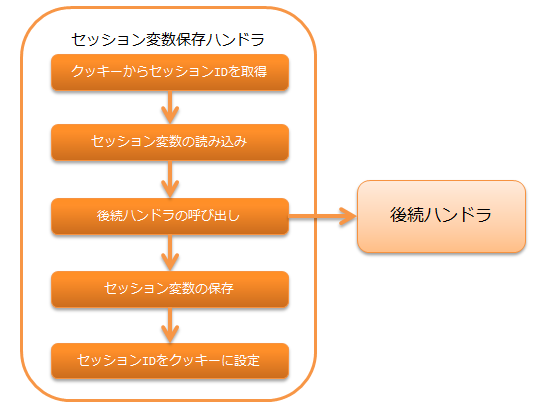
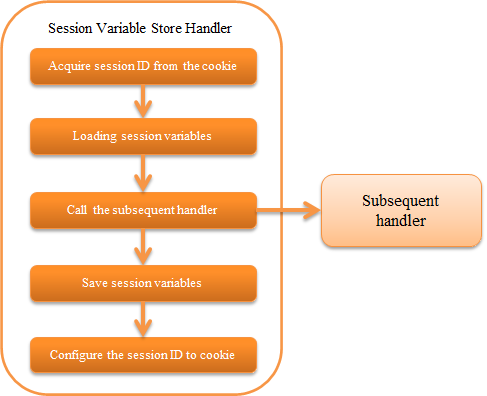
セッション変数保存ハンドラのページを英語化

Changed region(s): [[0.0, 0.0, 1.0, 1.0], [0.7084, 0.4848, 0.924, 0.5758]]

diff --git a/en/application_framework/application_framework/handlers/web/SessionStoreHandler.rst b/en/application_framework/application_framework/handlers/web/SessionStoreHandler.rst
@@ -1,37 +1,34 @@
 .. _session_store_handler:
 
-セッション変数保存ハンドラ
-============================
+Session Variable Store Handler
+==============================
 
-.. contents:: 目次
+.. contents:: Table of contents
   :depth: 3
   :local:
 
-後続のハンドラやライブラリで追加・更新・削除されたセッション変数を、セッションストアに保存するハンドラ。
+This handler stores the session variables added/updated/deleted in subsequent handlers and libraries in the session store.
 
-セッションストア機能の詳細は、 :ref:`session_store` を参照。
+For details of session store functions, see :ref:`session_store` .
 
-本ハンドラの処理の流れは以下の通りとなる。
+The process flow of this handler is as follows.
 
 .. image:: ../images/SessionStoreHandler/flow.png
 
 .. important:: 
 
-  同一セッションの処理が複数のスレッドで実行された場合(例えば、タブブラウザで複数タブから同時にリクエストが有った場合)、
-  使用しているストアによっては後勝ちとなる。
-  詳細は、以下のイメージを参照。
+  If processing of the same session is executed by multiple threads (for example, if there are requests from multiple tabs in the browser at the same time), then depending on the store being used, the request that comes last will be processed. See the below image for details.
 
   .. image:: ../images/SessionStoreHandler/multi-thread.png
     :scale: 80
 
-  このため、使用するストアの特性をよく理解し、要件にあったストアを選択する必要がある。
-  ストアの詳細は、 :ref:`session_store-future_of_store` を参照。
+  Therefore, it is necessary to fully understand the characteristics of the store to be used and select the store that meets the requirements. For details of the store, see :ref:`session_store-future_of_store` .
 
-ハンドラクラス名
+Handler class name
 --------------------------------------------------
 * :java:extdoc:`nablarch.common.web.session.SessionStoreHandler`
 
-モジュール一覧
+Module list
 --------------------------------------------------
 .. code-block:: xml
 
@@ -40,7 +37,7 @@
     <artifactId>nablarch-fw-web</artifactId>
   </dependency>
 
-  <!-- DBストアを使用する場合のみ -->
+  <!-- Only when using the DB store -->
   <dependency>
     <groupId>com.nablarch.framework</groupId>
     <artifactId>nablarch-fw-web-dbstore</artifactId>
@@ -48,31 +45,25 @@
 
 .. _session_store_handler-constraint:
 
-制約
+Constraints
 ------------------------------
-:ref:`http_response_handler` より後ろに配置すること
-  サーブレットフォワード時、フォワード先でセッションストアの値にアクセスできるようにするため、
-  本ハンドラは :ref:`http_response_handler` より後ろに配置する必要がある。
+Place this handler after the :ref:`http_response_handler`
+  During servlet forward, this handler must be placed after the :ref:`http_response_handler` so that the value of the session store can be accessed at the forward destination.
 
-:ref:`multipart_handler` より後ろに配置すること
-  HIDDENストア使用時にリクエストパラメータにアクセスできるようにするため、
-  本ハンドラは :ref:`multipart_handler` より後ろに配置する必要がある。
+Place this handler after the :ref:`multipart_handler`
+  This handler must be placed after the :ref:`multipart_handler` so that the request parameters can be accessed when using the HIDDEN store.
 
-:ref:`forwarding_handler` より前に配置すること
-  :ref:`forwarding_handler` を本ハンドラよりも前に設定した場合、セッションストアの読み込み、保存が複数回実行されるが、
-  HIDDENストアはリクエストパラメータからセッション変数を読み込み、リクエストスコープにセッション変数を保存するため、
-  内部フォーワード時にHIDDENストアを使用した場合、最新のセッション変数を取得することができない問題がある。
-  このため、本ハンドラは :ref:`forwarding_handler` より前に配置すること。
+Place this handler before the :ref:`forwarding_handler`
+  Although the session store is read and saved multiple times if the :ref:`forwarding_handler` is configured before this handler, the HIDDEN store reads the session variable from the request parameter and saves the session variable in the request scope. Therefore, there is a problem that the latest session variable cannot be obtained when using the HIDDEN store during internal forward. Therefore, place this handler before the :ref:`forwarding_handler` .
 
-セッションストアを使用するための設定を行う
+Configure for using session store
 --------------------------------------------------------------
-セッションストアを使用するには、以下の設定を行った :java:extdoc:`SessionManager <nablarch.common.web.session.SessionManager>`
-を本ハンドラの :java:extdoc:`sessionManager <nablarch.common.web.session.SessionStoreHandler.setSessionManager(nablarch.common.web.session.SessionManager)>` プロパティに設定する必要がある。
+To use the session store, configure :java:extdoc:`SessionManager <nablarch.common.web.session.SessionManager>` which has been configured as given below to the property :java:extdoc:`sessionManager <nablarch.common.web.session.SessionStoreHandler.setSessionManager(nablarch.common.web.session.SessionManager)>` of this handler.
 
-* アプリケーションで使用するセッションストア（複数指定可）
-* デフォルトで使用するセッションストア名
+* Session store used by the application (multiple specifications possible)
+* Session store name used by default
 
-以下の設定例を参考に、本ハンドラの設定を行うこと。
+Configure the handler by referring to the configuration example given below.
 
 .. code-block:: xml
 
@@ -80,76 +71,70 @@
     <property name="sessionManager" ref="sessionManager"/>
   </component>
 
-  <!-- "sessionManager"というコンポーネント名で設定する -->
+  <!-- Configure with the component name "sessionManager" -->
   <component name="sessionManager" class="nablarch.common.web.session.SessionManager">
-    <!-- プロパティの設定は省略 -->
+    <!-- Property configuration is omitted -->
   </component>
 
-:java:extdoc:`SessionManager <nablarch.common.web.session.SessionManager>` に設定するプロパティの詳細は :ref:`session_store-use_config` を参照。
+For details of the property configured in :java:extdoc:`SessionManager <nablarch.common.web.session.SessionManager>` , see :ref:`session_store-use_config` .
 
-セッション変数を直列化してセッションストアに保存する
+Serialize the session variables and save to the session store
 --------------------------------------------------------------
-本ハンドラでセッション変数をセッションストアに保存する際、直列化の仕組みを選択することができる。
+When saving the session variable in the session store with this handler, the serialization mechanism can be selected.
 
-選択可能な直列化の仕組みの詳細は :ref:`session_store-serialize` を参照。
+For details on the serialization mechanism that can be selected, see :ref:`session_store-serialize` .
 
-セッションストアの改竄をチェックする
+Check the session store for tampering
 --------------------------------------------------------------
-セッションストアからセッション変数を読み込む際、セッションストアが改竄されていないかをチェックする。
+When reading the session variables from the session store, check the session store for tampering.
 
-HIDDENストアの改竄を検知した場合
-  ステータスコード400の :java:extdoc:`HttpErrorResponse <nablarch.fw.web.HttpErrorResponse>` を送出する。
+When tampering of the HIDDEN store is detected
+  :java:extdoc:`HttpErrorResponse <nablarch.fw.web.HttpErrorResponse>` of status code 400 is thrown.
 
-それ以外のストアの改竄を検知した場合
-  セッションストアの復号処理時に発生した例外をそのまま送出する。
+When tampering of other stores is detected
+  Exception that occurred during the decryption process of the session store is sent without any changes.
 
 .. _session_store_handler-error_forward_path:
 
-改竄エラー時の遷移先を設定する
+Configure the transition destination during tampering error
 --------------------------------------------------------------
-セッションストアの改竄を検知した場合に表示するエラーページは `web.xml` に記載する必要がある。
-なぜなら、本ハンドラは :ref:`session_store_handler-constraint` に記載の通り、 :ref:`forwarding_handler` よりも前に設定する必要がある。
-この場合、以下の理由により本ハンドラで発生した例外に対して、 :ref:`HttpErrorHandler_DefaultPage` を適用することができないため、
-`web.xml` に対する設定が必要となる。
+The error page displayed when the tampering of the session store is detected must be described in `web.xml`. This handler must be configured before the :ref:`forwarding_handler` as described in the :ref:`session_store_handler-constraint` . In this case, :ref:`HttpErrorHandler_DefaultPage` cannot be applied to the exception that occurs in this handler for the following reasons. Therefore, configuration in `web.xml` is required.
 
-理由
-  :ref:`forwarding_handler` は、 :ref:`http_error_handler` よりも手前に設定する必要がある。
-  これは、 :ref:`http_error_handler`  の :ref:`HttpErrorHandler_DefaultPage` に対して指定した
-  内部フォワードのパスを正しく扱うために必要な設定順となる。
+Reason
+  :ref:`forwarding_handler` must be configured before the :ref:`http_error_handler` . This configuration order is required to correctly handle the internal forward path specified for :ref:`HttpErrorHandler_DefaultPage` of the :ref:`http_error_handler` .
 
-  この結果、 :ref:`forwarding_handler` より前に設定される本ハンドラで発生した例外に対しては、
-  :ref:`HttpErrorHandler_DefaultPage` への設定値が適用できないため `web.xml` への設定が必要となる。
+  As a result, when an exception occurs in the handler that is configured before the :ref:`forwarding_handler` , the configuration value in the :ref:`HttpErrorHandler_DefaultPage` cannot be applied. Therefore, configuration in `web.xml` is required.
 
-セッションIDを保持するクッキーの名前や属性を変更する
---------------------------------------------------------------
-セッションIDを保持するクッキーの名前や属性を任意の値に変更することができる。
+Change the name and attributes of the cookie that holds the session ID
+----------------------------------------------------------------------
+The name and attributes of the cookie that holds the session ID can be changed to an arbitrary value.
 
-デフォルトの設定は以下のとおり。
+The default configuration is as follows.
 
-:クッキー名:    | NABLARCH_SID
-:Path属性:      | ホスト配下のすべてのパス
-                 | 送信可能なパスを明示的に指定したい場合に別途設定すること
-:Domain属性:    | 指定しない
-                  | 送信可能なドメインを明示的に指定したい場合に別途設定すること
-:Secure属性:    | 使用しない
-                  | HTTPS環境で使用する場合は、``使用する`` に設定すること
-:MaxAge属性:    | 指定しない
-:HttpOnly属性:  | ServletAPIのバージョンが3.0以上であれば使用する
+:Cookie name:         | NABLARCH_SID
+:Path attribute:      | All paths under the host
+                      | Set this option separately if you want to explicitly specify all paths that can be sent
+:Domain attribute:    | Not specified
+                      | Set this option separately if you want to explicitly specify all domains that can be sent
+:Secure attribute:    | Not used
+                      | To use in an HTTPS environment, configure to ``Use``
+:MaxAge attribute:    | Not specified
+:HttpOnly attribute:  | Use if the Servlet API version is 3.0 or higher
 
-クッキー名や属性を変更したい場合は、以下の例を参考に設定を行うこと。
+To change the cookie name or attribute, refer to the example given below.
 
 .. code-block:: xml
 
     <component class="nablarch.common.web.session.SessionStoreHandler">
-      <!-- クッキー名 -->
+      <!-- Cookie name -->
       <property name="cookieName" value="NABLARCH_SID" />
-      <!-- Path属性 -->
+      <!-- Path attribute -->
       <property name="cookiePath" value="/" />
-      <!-- Domain属性 -->
+      <!-- Domain attribute -->
       <property name="cookieDomain" value="" />
-      <!-- Secure属性 -->
+      <!-- Secure attribute -->
       <property name="cookieSecure" value="false" />
-      <!-- セッションマネージャ -->
+      <!-- Session manager -->
       <property name="sessionManager" ref="sessionManager"/>
     </component>
 
@@ -157,21 +142,19 @@ HIDDENストアの改竄を検知した場合
       <property name="availableStores">
         <list>
           <component class="nablarch.common.web.session.store.DbStore">
-            <!-- 有効期間 -->
+            <!-- Expiry interval -->
             <property name="expires" value="1800" />
-            <!-- その他のプロパティは省略 -->
+            <!-- Other properties are omitted -->
           </component>
         </list>
       </property>
-      <!-- その他のプロパティは省略 -->
+      <!-- Other properties are omitted -->
     </component>
 
 .. important::
-  セッションIDを保持するクッキーをセッションクッキー(ブラウザを閉じれば破棄されるクッキー)とするため、MaxAge属性は使用しない。
+  The MaxAge attribute is not used because the cookie holding the session ID is a session cookie (cookie that is destroyed when the browser is closed).
 
-  セッションストアの有効期間は、HTTPセッションに保存する。
-  複数のストア間で異なる有効期間を設定した場合は、最も期間の長い値をHTTPセッションに保存する。
+  The expiry interval of the session store is saved in the HTTP session. If different expiry intervals are configured between multiple stores, the longest expiry interval value is stored in the HTTP session.
 
 .. tip::
-  HttpOnly属性の値はアプリケーションで使用しているServletAPIのバージョンによって決定されるため、
-  設定ファイル等から任意の値を指定することはできない。
+  Since the value of HttpOnly attribute is determined by the version of the Servlet API used in the application, an arbitrary value cannot be specified from the configuration file.
